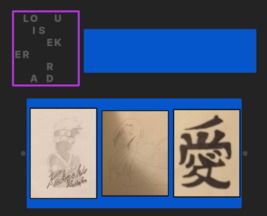
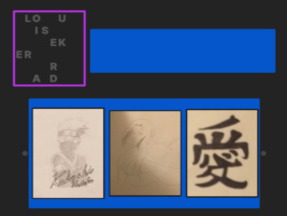
adding media queries

diff --git a/style.css b/style.css
@@ -1,7 +1,7 @@
 body{
   font-family: 'Inter', sans-serif;
   font-weight:900;
-  background:#131516;
+  background: rgb(24, 26, 27);
 }
 a{
   text-decoration:none;
@@ -16,7 +16,7 @@ a{
 }
 .button{
   padding: 0.7rem;
-  font-size:24px;
+  font-size:16px;
   font-weight:900;
   border-radius:10px;
   background: -webkit-linear-gradient( #fcba21, #f05321);
@@ -26,54 +26,82 @@ a{
 /* Style page content */
 .content {
   margin-left: 200px;
-  margin-top:180px;
-  /* Same as the width of the sidebar */
   padding: 0px 10px 0px 60px;
   color: rgb(45, 130, 243);
+  width: 60vw;
 }
 .portfolio h2{
-  font-size:42px;
+  font-size:52px;
+  margin-top:80px;
 }
+/*---------------------------------------------------------------------------*/
 .projContent{
   display: grid;
-  grid-template-columns: repeat(8, 1fr);
-  grid-template-rows: repeat(3, 1fr);
+  grid-template-columns: repeat(3, auto) repeat(5, 1fr);
+  grid-template-rows: repeat(4, min-content);
   grid-gap:1px;
   z-index:1;
   align-items:center;
-  margin-bottom:80px;
+  margin-bottom:110px;
+  width:40vw;
 }
-.projTitle{
-  grid-column:1/2;
+.projContent h4{
+  font-size:14px;
+  font-weight:400;
+  grid-column:1/6;
   grid-row:1;
   margin-bottom:0px;
+  margin-top:0px;
+  background: -webkit-linear-gradient( #fcba21, #f05321);
+  -webkit-background-clip: text;
+  -webkit-text-fill-color: transparent;
+}
+.projTitle{
+  grid-column:1/4;
+  grid-row:2;
+  margin-bottom:0px;
+  margin-top:0px;
   font-size:24px;
   color:#818181;
 }
 .projDesc{
-  margin-top:0px;
+  margin-top:30px;
   display:block;
-  grid-column:1/5;
-  grid-row:2;
+  grid-column:1/7;
+  grid-row:3;
   background:#112240;
-  padding:0.7rem;
+  padding:0.5rem 1rem 0.5rem 1.5rem;
   border-radius:1px;
   font-weight:400;
   letter-spacing:-0.02rem;
   font-size:14px;
   z-index:3;
   position:relative;
-}
-.projImg{
-  grid-column:4/8;
-  grid-row:1/4;
-  z-index:2;
+  width: 85%;
 }
 .projKeywords{
-  grid-column:1/4;
-  grid-row:3;
+  grid-column:1/6;
+  grid-row:4;
   z-index:3;
   color:#818181;
+}
+.projImg{
+  grid-column:6/9;
+  grid-row:1/5;
+  z-index:2;
+  background: rgba(255,0,0,0.3);
+  opacity:1;
+  transition:0.5s;
+}
+.projImg img{
+  display: block;
+}
+.projImg:hover{
+  opacity:0.5;
+}
+.projImg img onclick**********************************open pop-up with projStory
+.projStory{
+
 }
 .skills{
   margin:120px 10px 0px 200px;
@@ -98,7 +126,7 @@ a{
 .langLogos * {
   padding:0.25rem 0.5rem 0.25rem 0.5rem;
 }
-/*-----------------------------------------------------------------*/
+/*---------------------------------------------------*/
 /* The sidebar menu */
 .sidenav {
   height: 100%; /* Full-height: remove this if you want "auto" height */
@@ -107,7 +135,8 @@ a{
   z-index: 1; /* Stay on top */
   top: 0; /* Stay at the top */
   left: 0;
-  background-color: #232323; /* Black */
+  background-color: #232323;
+  background-color: #131516;
   overflow-x: hidden; /* Disable horizontal scroll */
   padding-top: 20px;
 }
@@ -147,6 +176,9 @@ a{
 }
 /*-----------------------------------------------------------------*/
 /*The About Me section*/
+.about{
+  margin-top:180px;
+}
 .aboutMe{
   color: rgb(45, 130, 243);
   margin-left:40px;
@@ -154,7 +186,7 @@ a{
 .aboutMe h1 {
   margin-top:0;
   margin-bottom:0;
-  font-size:16px;
+  font-size:18px;
   letter-spacing:0.3rem;
   font-weight:600;
 }
@@ -179,3 +211,4 @@ a{
   letter-spacing:-0.0rem;
   color: #818181;
 }
+/*-------------Shrink the Portfolio Projects on smaller screens---------------*/

diff --git a/skills.html b/skills.html
@@ -8,6 +8,8 @@
   <link href="https://fonts.googleapis.com/css2?family=Inter:wght@900&display=swap" rel="stylesheet">
   <link href="https://fonts.googleapis.com/css2?family=Inter:wght@400&display=swap" rel="stylesheet">
   <link rel="stylesheet" href="style.css">
+  <link rel="stylesheet" href="styleTablet.css">
+  <link rel="stylesheet" href="styleMobile.css">
   <link rel="stylesheet" href="https://cdn.jsdelivr.net/npm/@splidejs/splide@latest/dist/css/splide.min.css">
 </head>s
 
@@ -25,23 +27,21 @@
   </div>
     <!--Index.html will be About Page with clear links to portfolio -->
   <main class="skills">
-    <section>
-      <h2>My current Toolbox</h2>
-      <h3>I'm fairly adept with these languages and tools</h3>
-      <div class='langLogos'>
-        <img src="https://img.icons8.com/color/96/000000/html-5.png"/>
-        <img src="https://img.icons8.com/color/96/000000/css3.png"/>
-        <img src="https://img.icons8.com/color/96/000000/javascript.png">
-        <img src="https://img.icons8.com/color/96/000000/nodejs.png"/>
-        <img src="https://img.icons8.com/color/96/000000/npm.png"/>
-        <img id="webpack" src="https://webpack.js.org/icon-square-small-slack.9281492bb267314634b4.png"/>
-        <img src="https://img.icons8.com/color/96/000000/git.png"/>
-        <img src="https://img.icons8.com/color/96/000000/linux.png"/>
-        <img src="https://img.icons8.com/plasticine/100/000000/bash.png"/>
-        <img id="vim" src="https://cdn.iconscout.com/icon/free/png-256/vim-283379.png"/>
-      </div>
-    </section>
-    </main>
+    <h2>My current Toolbox</h2>
+    <h3>I'm fairly adept with these languages and tools</h3>
+    <div class='langLogos'>
+      <img src="https://img.icons8.com/color/96/000000/html-5.png"/>
+      <img src="https://img.icons8.com/color/96/000000/css3.png"/>
+      <img src="https://img.icons8.com/color/96/000000/javascript.png">
+      <img src="https://img.icons8.com/color/96/000000/nodejs.png"/>
+      <img src="https://img.icons8.com/color/96/000000/npm.png"/>
+      <img id="webpack" src="https://webpack.js.org/icon-square-small-slack.9281492bb267314634b4.png"/>
+      <img src="https://img.icons8.com/color/96/000000/git.png"/>
+      <img src="https://img.icons8.com/color/96/000000/linux.png"/>
+      <img src="https://img.icons8.com/plasticine/100/000000/bash.png"/>
+      <img id="vim" src="https://cdn.iconscout.com/icon/free/png-256/vim-283379.png"/>
+    </div>
+  </main>
 </body>
 <script src="https://cdn.jsdelivr.net/npm/@splidejs/splide@latest/dist/js/splide.min.js"></script>
 </html>

diff --git a/portfolio.html b/portfolio.html
@@ -8,6 +8,8 @@
   <link href="https://fonts.googleapis.com/css2?family=Inter:wght@900&display=swap" rel="stylesheet">
   <link href="https://fonts.googleapis.com/css2?family=Inter:wght@400&display=swap" rel="stylesheet">
   <link rel="stylesheet" href="style.css">
+  <link rel="stylesheet" href="styleTablet.css">
+  <link rel="stylesheet" href="styleMobile.css">
   <link rel="stylesheet" href="https://cdn.jsdelivr.net/npm/@splidejs/splide@latest/dist/css/splide.min.css">
 </head>
 <body>
@@ -25,13 +27,28 @@
   </div>
   <!-- Main Content -->
   <main class="portfolio content">
-    <section>
       <h2>Some Things I've Built</h2>
       <div class='projContent'>
+        <h4>Featured Project</h4>
+        <h3 class='projTitle'>MyParisReview.org</h3>
+        <div class="projDesc">
+          <p>For subscribers of The Paris Review. Search the archives with functionality not available on theparisreview.org and maintain a library of stories read.</p>
+        </div>
+        <div class="projImg">
+          <a href="http://myparisreview.org">
+            <img src="/myparisreview.jpg" alt="">
+          </a>
+        </div>
+        <div class="projKeywords">
+          <p>JS, Node, Express</p>
+        </div>
+      </div>
+      <div class='projContent'>
+        <h4>Featured Project</h4>
         <h3 class='projTitle'>LouiseKerrad.com</h3>
         <div class="projDesc">
           <p>
-            A website where users log in and upload their art work to display in an online portfolio.
+            A children's website for displaying art projects. Contains authentication and CRUD functionality.
           </p>
         </div>
         <div class="projImg">
@@ -43,22 +60,6 @@
           <p>HTML, CSS, JS</p>
         </div>
       </div>
-
-        <div class='project-content'>
-          <h3 class='projTitle'>MyParisReview.org</h3>
-          <div class="projDesc">
-          </div>
-          <div class="projImg">
-            <a href="">
-              <img src="" alt="">
-            </a>
-          </div>
-          <div class="projKeywords">
-          </div>
-        </div>
-
-
-    </section>
   </main>
 </body>
 </html>

diff --git a/about.html b/about.html
@@ -8,6 +8,8 @@
   <link href="https://fonts.googleapis.com/css2?family=Inter:wght@900&display=swap" rel="stylesheet">
   <link href="https://fonts.googleapis.com/css2?family=Inter:wght@400&display=swap" rel="stylesheet">
   <link rel="stylesheet" href="style.css">
+  <link rel="stylesheet" href="styleTablet.css">
+  <link rel="stylesheet" href="styleMobile.css">
   <link rel="stylesheet" href="https://cdn.jsdelivr.net/npm/@splidejs/splide@latest/dist/css/splide.min.css">
 </head>
 
@@ -25,17 +27,14 @@
     <a href="/about.html">Contact</a>
   </div>
   <!--Index.html will be About Page with clear links to portfolio -->
-  <main class="content">
-    <section class="an-entire-div-animation-onload">
+  <main class="about content">
       <div class="aboutMe">
         <h1>Hi, my name is<h1>
         <h2>alan rich</h2>
         <h3>I build things for the web.</h3>
-        <p>I'm an American web developer. I'm usually located in Chicago or Toulouse. I build and occasionally design exceptional websites and applications.</p>
+        <p>I'm an American web developer usually located in Chicago or Toulouse. I build and occasionally design exceptional websites and applications.</p>
         <a href="/portfolio.html" class='button'>View my work</a>
       </div>
-    </section>
-    <section>
       <div class="splide">
 	      <div class="splide__track">
 		      <ul class="splide__list">
@@ -45,7 +44,6 @@
 		      </ul>
 	      </div>
       </div>
-    </section>
   </main>
 </body>
 <script src="https://cdn.jsdelivr.net/npm/@splidejs/splide@latest/dist/js/splide.min.js"></script>

diff --git a/styleMobile.css b/styleMobile.css
@@ -1,0 +1,13 @@
+@media screen and (min-width: 480px){
+html{
+
+}
+body{
+
+}
+nav{
+
+}
+
+/*---------Outer Bracket Delimiter------------*/
+}

diff --git a/myparisreviewProjProcessExplanation.md b/myparisreviewProjProcessExplanation.md
@@ -1,0 +1,5 @@
+To solve the problem I decided on a NoSQL database of three collections. A collection of stories stories. A global collection of stories. A global collection of summaries divided into sub-collections for each story. Entries in each collection received a unique identifier as well as an identifer shared with entries of the same title existing in the other collection. Having this unique & shared ID scheme seemed like an easy solution to my query needs. 
+
+I wanted users to be able to search an offline collection of theparisreview.org archives and have some options with each search result: navigate to that story's url, read story summaries submitted from other subscribers, add to the user's collection of reading reaad or recommended.
+
+***Users should have a profile page prominently displaying their recommended stories and minorly displaying their currently reading, library and a fading carousel of clickable summaries
